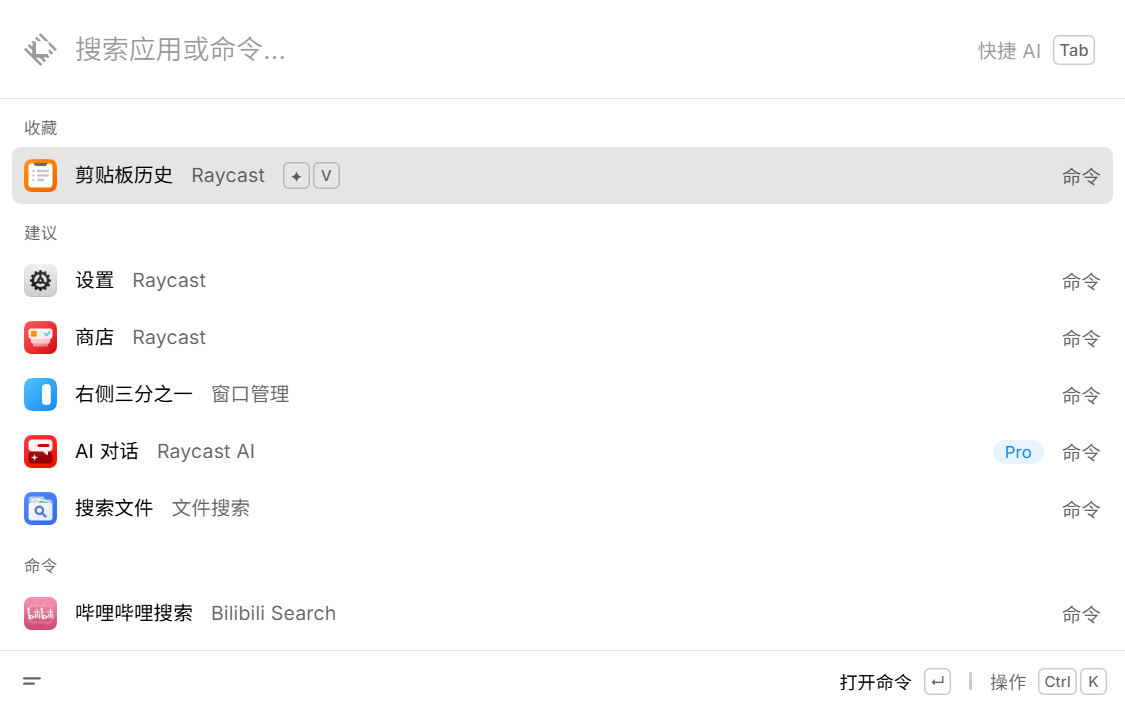
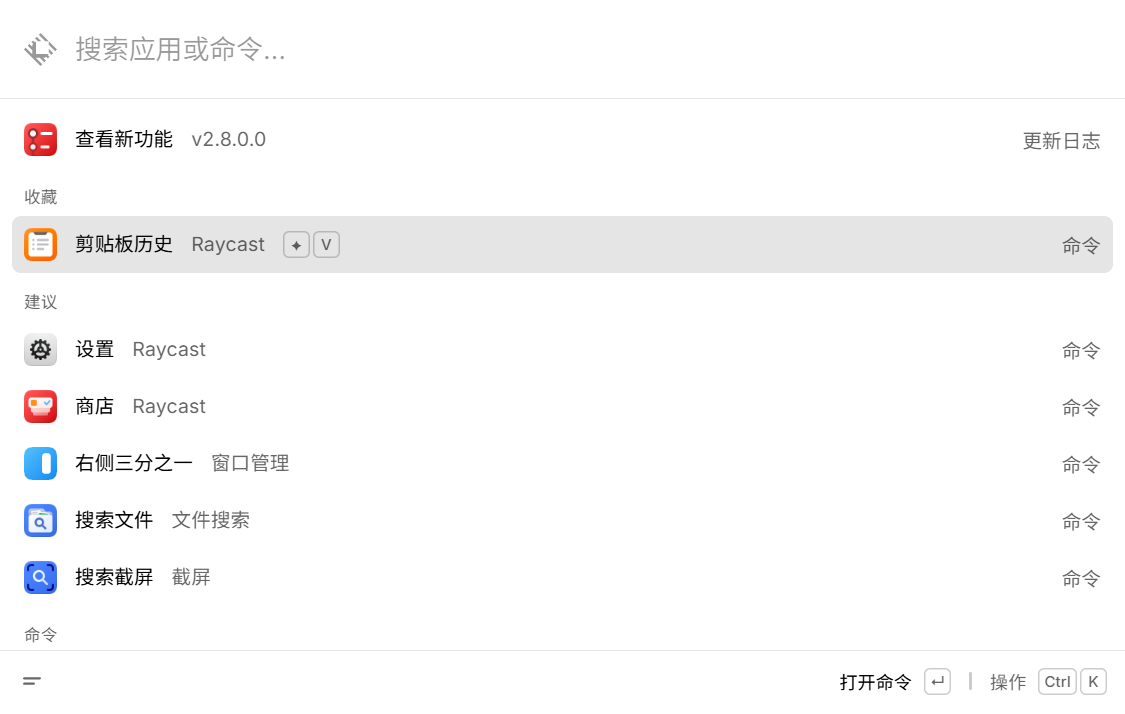
feat: support Raycast Windows 2.8.0.0

diff --git a/docs/validation.md b/docs/validation.md
@@ -1,5 +1,13 @@
 # Windows 汉化验收记录
 
+## 2.8.0.0-r1（2026-10-16）
+
+- 适配 Microsoft Store Raycast 2.8.0.0 x64，178 个资源文件、7,936 处显示修改。
+- 新增 44 条界面译文；完整翻译本版更新日志的 65 个正文块、标题和横幅。
+- 本机完成旧版卸载、新版安装和原版入口重启，主界面、商店介绍及更新日志显示中文。
+- 23 项自动化测试通过，包含三个版本更新日志的翻译及恢复检查。
+
+
 ## 2.7.3.0-r1（2026-10-13）
 
 - 适配 Microsoft Store Raycast 2.7.3.0 x64，更新全部资源指纹。
@@ -61,6 +69,6 @@
 
 没有批量安装插件，没有登录外部服务，没有测试真实账号操作、付费功能、设备控制或所有命令。插件源码与 Store 已发布版本可能不同；运行时只翻译实际安装版本能安全识别的字面量。截图只显示本机已验收的界面，不代表所有页面均为中文。
 
-**尚未在第二台真实电脑验证完整安装和界面。** 支持条件是当前用户已安装 Microsoft Store Raycast 2.7.3.0 x64 且指纹匹配。不能据此保证其他版本、ARM64、组织管理策略限制的环境或所有插件流程均可用。
+**尚未在第二台真实电脑验证完整安装和界面。** 支持条件是当前用户已安装 Microsoft Store Raycast 2.8.0.0 x64 且指纹匹配。不能据此保证其他版本、ARM64、组织管理策略限制的环境或所有插件流程均可用。
 
 更新保护：主程序版本或指纹变化时拒绝加载。插件更新时重新备份并分析；不支持的语法跳过并记录。汉化文件被用户手动修改时，卸载拒绝覆盖该文件并保留备份。

diff --git a/README.md b/README.md
@@ -2,7 +2,7 @@
 
 Raycast Windows Simplified Chinese Localization，支持主界面、设置、商店、更新日志和热门插件。非官方项目。
 
-**适配 Microsoft Store 版 Raycast 2.7.3.0 x64。**
+**适配 Microsoft Store 版 Raycast 2.8.0.0 x64。**
 
 [下载 Windows 版](https://github.com/zwjtano/raycast-windows-zh-CN/releases/latest) · [macOS 版](https://github.com/zwjtano/raycast-macos-zh-CN)
 
